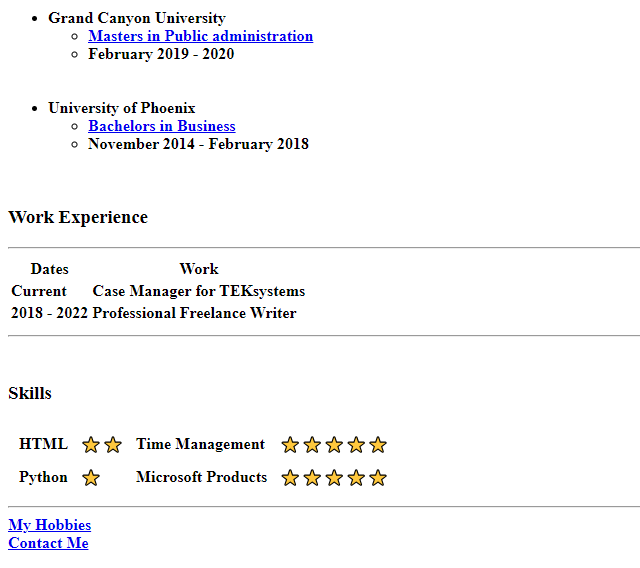
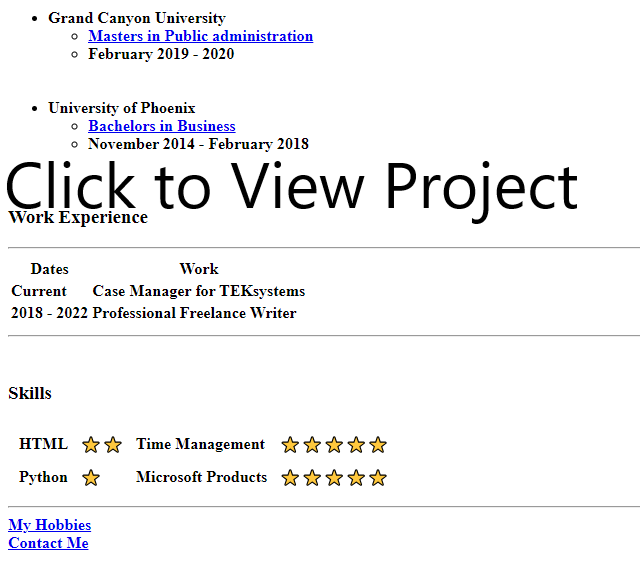
Fixed issue with non clickable links!

diff --git a/index.html b/index.html
@@ -48,7 +48,14 @@
         <p>work that I have done and plan to do.</p>
         <div class="firstHTMLSite"></div>
         <a href="https://lelisiario.github.io/Personal-Website/" target="_blank">
-        <img class="firstHTMLSite"> <img src="./Assets/CSS/first site2.png" alt="First Project"></a>
+        <div class="firstHTMLSite"> <img src="./Assets/CSS/first site2.png" alt="First Project"></a>
+          <p> Click to view project.</p>
+        
+        <div class="Mini2"></div>
+        <a href="https://github.com/lelisiario/Mini-2" target="_blank" id="Mini">
+          <div class="Mini-2"> <img src="./Assets/CSS/Mini-2 half screen.PNG"></div></a>
+          <p> Click to view project.</p>
+        
       </section>
 
       <section class="sectionContact" id="contactMe"> 

diff --git a/Assets/CSS/Style.css b/Assets/CSS/Style.css
@@ -117,11 +117,17 @@
   max-width: 50%;
   border: 3px solid rgb(146, 209, 167);
   padding: 0;
-  position: relative;
+
   transition: transform 0.3s ease;
   align-items: center;
   background: url(https://lelisiario.github.io/Personal-Website/);
   
+}
+
+#Mini {
+max-width: 25%;
+align-items: center;
+background: url(https://github.com/lelisiario/Mini-2)
 }
 
 .firstHTMLSite:hover img {
